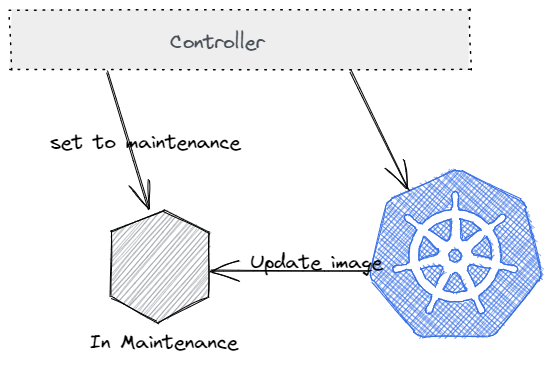
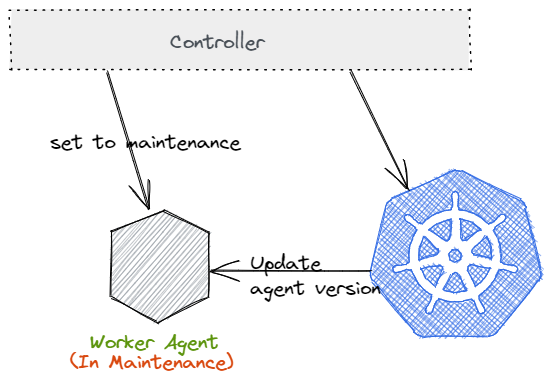
update

diff --git a/content/posts/upgrade-job-execution-app-in-k8s.md b/content/posts/upgrade-job-execution-app-in-k8s.md
@@ -14,7 +14,7 @@ date: 2022-01-31T00:00:00Z
 ![](/upgrade-job-execution-app-in-k8s/1.png)
 
 
-具体来讲，第一个思路里，工作侧会是若干个工作节点，工作节点是常驻的Pod，有任务就执行，没任务就待机，agent可以主动从控制侧拉取任务，或者是由控制侧向agent发送任务执行命令。
+具体来讲，第一个思路里，工作侧会是若干个工作节点，工作节点是常驻的，有任务就执行，没任务就待机，工作节点可以主动从控制侧拉取任务，或者是由控制侧向工作节点发送任务执行命令。
 
 在部署更新时，我们首先只更新控制侧的应用版本，然后由控制侧通过Kubernetes API更新工作节点，更新节点前首先确认当前节点是否正在执行任务，只有节点处于空闲状态时才会进行更新，并且在更新前会将节点状态设为“维护中”，使其在更新完成前不会接受新的任务。
 
@@ -23,14 +23,14 @@ date: 2022-01-31T00:00:00Z
 节点的更新可以自动触发，或者是设置一个管理按钮，点一下即可开始升级各个节点。
 
 
-另一个思路和上面的类似，只是工作侧从常驻的工作节点换成了暂态的作业Pod，每次需要执行作业时，都创建出一个作业Pod，由作业Pod负责作业的执行。
+另一个思路和上面的类似，只是工作侧从常驻的工作节点换成了暂态的作业执行器，每次需要执行作业时，都创建出一个作业执行器，由执行器负责作业的执行。
 
 ![](/upgrade-job-execution-app-in-k8s/3.png)
 
-在这里，控制侧永远只会创建作业Pod，而不会对其进行更新，作业Pod所负责的作业执行完成后就不再工作等待销毁，新作业会由新创建的作业Pod负责执行。
+在这里，控制侧永远只会创建作业执行器，而不会对其进行更新，作业执行器所负责的作业执行完成后就不再工作等待销毁，新作业会由新创建的执行器负责执行。
 
 
-这两个思路都是将应用分成了**控制侧**和**工作侧**，应用部署时只更新控制侧的应用版本，**工作侧的更新由控制侧通过Kubernetes的API来控制进行**，区别是，第一个方案里，工作侧是**长生命周期**的不停执行作业的工作节点，第二个方案里工作侧是只执行一次特定作业的**短生命周期**的一次性Pod。
+这两个思路都是将应用分成了**控制侧**和**工作侧**，应用部署时只更新控制侧的应用版本，**工作侧的更新由控制侧通过Kubernetes的API来控制进行**，区别是，第一个方案里，工作侧是**长生命周期**的不停执行作业的工作节点，第二个方案里工作侧是只执行一次特定作业的**短生命周期**的一次性执行器。
 
 很可惜的是，这两个方案都没有被Q部门采用，因为Q部门不愿意将作业执行部分从应用中分离出来（我猜可能是认为做起来比较麻烦吧），而选择容忍应用部署更新时对作业执行的中断。
 不过如果遇到**无法容忍应用更新导致作业中断的场景**的话，这两个思路应该是值得参考的。
